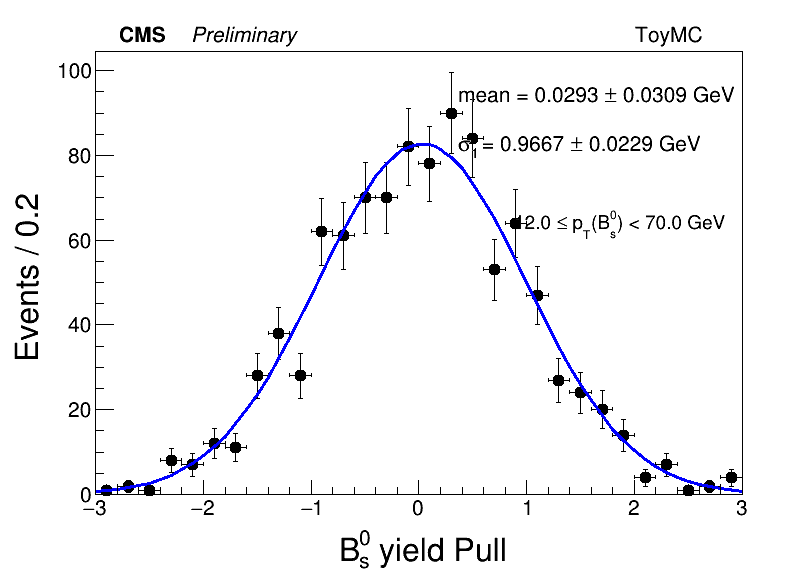
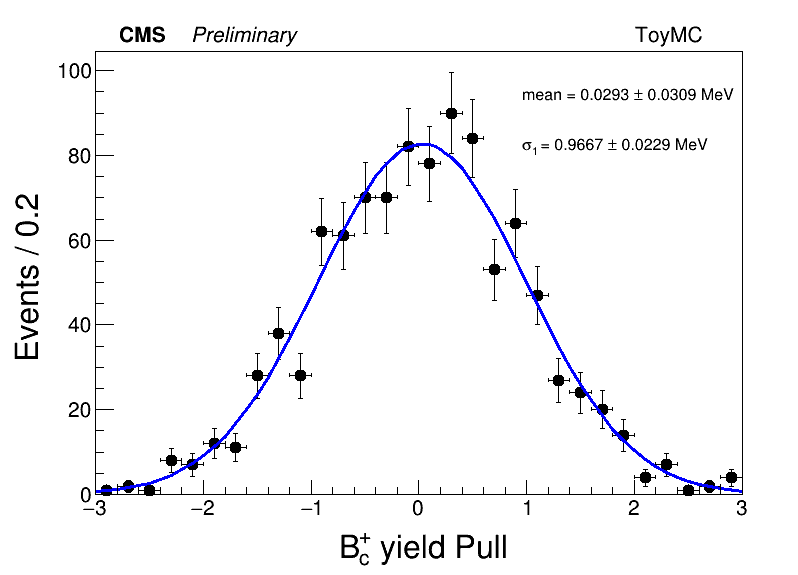
Corrección unidades plots

diff --git a/Documents/Parcial2/CC1216730080/BcMassFit.C b/Documents/Parcial2/CC1216730080/BcMassFit.C
@@ -109,7 +109,7 @@ TCanvas* CreateCanvasNomPull(TString cname, RooFitResult* result, RooDataSet dat
   data.plotOn(Mframe,DataError(RooAbsData::SumW2),MarkerSize(1.0),XErrorSize(0),Name("Data"));
   MassModel.plotOn(Mframe);
   
-  Mframe->SetYTitle(Form("Events / %1.4f GeV", (6.5-6.04)/nbin)); 
+  Mframe->SetYTitle(Form("Events / %1.4f MeV", (6.5-6.04)/nbin)); 
   Mframe->SetLabelSize(0.07,"XY");
   Mframe->SetTitleSize(0.08,"XY");
   Mframe->GetYaxis()->CenterTitle();   
@@ -150,8 +150,8 @@ TCanvas* CreateCanvasNomPull(TString cname, RooFitResult* result, RooDataSet dat
   legpar->SetFillColor(0);
   legpar->SetBorderSize(0);
   legpar->SetFillStyle(0);
-  legpar->AddEntry("",Form("M(B_{c}^{+}) = %1.2f #pm %1.2f GeV",Mpsi,MpsiE),"");
-  legpar->AddEntry("",Form("#sigma = %1.2f #pm %1.2f GeV",G,GE),"");
+  legpar->AddEntry("",Form("M(B_{c}^{+}) = %1.2f #pm %1.2f MeV",Mpsi,MpsiE),"");
+  legpar->AddEntry("",Form("#sigma = %1.2f #pm %1.2f MeV",G,GE),"");
   legpar->AddEntry("",Form("N_{B_{c}^{+}} = %1.0f #pm %1.0f",Ns.getVal(),Ns.getError()),"");
   legpar->AddEntry("",Form("N_{bkg} = %1.0f #pm %1.0f",Nb.getVal(),Nb.getError()),"");
   legpar->Draw();
@@ -162,7 +162,7 @@ TCanvas* CreateCanvasNomPull(TString cname, RooFitResult* result, RooDataSet dat
   legMass->SetFillColor(0); 
   legMass->SetBorderSize(0);
   legMass->SetFillStyle(0); 
-  //legMass->SetHeader(Form("%1.1f #leq p_{T}(B_{s}^{0}) < %1.1f GeV ",ptl,pth));
+  //legMass->SetHeader(Form("%1.1f #leq p_{T}(B_{s}^{0}) < %1.1f MeV ",ptl,pth));
   legMass->Draw();
   
   pad2->cd();
@@ -240,7 +240,7 @@ void BcMassFit(Double_t ptl=12.0, Double_t pth=70.0){
     cout<<" Entries : "<<nentries<<endl;
     
     //------------------------------
-    RooRealVar M("M","M(J/#psi #pi^{+}) (GeV)",Mmin,Mmax);
+    RooRealVar M("M","M(J/#psi #pi^{+}) (MeV)",Mmin,Mmax);
     RooDataSet data("data","data",RooArgSet(M));
 
     Int_t nTen = nentries/10;
@@ -270,8 +270,8 @@ void BcMassFit(Double_t ptl=12.0, Double_t pth=70.0){
     RooExponential bkg1("bkg1","Exp. Background",M,c);
 
     //Modelo para la señal: gaussiana.
-    RooRealVar mean("mean"," Mass mean",6.275,6.25,6.3,"GeV");
-    RooRealVar width("width"," Mass width",0.10,0.01,0.15,"GeV");
+    RooRealVar mean("mean"," Mass mean",6.275,6.25,6.3,"MeV");
+    RooRealVar width("width"," Mass width",0.10,0.01,0.15,"MeV");
     RooGaussian Sig("Sig"," Signal PDF",M,mean,width);
 
     //Modelo combinado: exponencial + gaussiana.

diff --git a/Documents/Parcial2/CC1216730080/ToyMC/analisis_ToyMC_Bs.C b/Documents/Parcial2/CC1216730080/ToyMC/analisis_ToyMC_Bs.C
@@ -80,13 +80,13 @@ TCanvas* CreateCanvasGauss(TString cname, RooFitResult* result, RooDataSet data,
   Double_t Ge = bwg1.getError();
   //Double_t G2e = bwg1.getPropagatedError(*result);
   
-  TLegend *legpar = new TLegend(0.5,0.7,0.8,0.88);
-  legpar->SetTextSize(0.04); //text size in pixels                                 
+  TLegend *legpar = new TLegend(0.6,0.7,0.82,0.88);
+  legpar->SetTextSize(0.03); //text size in pixels                                 
   legpar->SetFillColor(0);
   legpar->SetBorderSize(0);
   legpar->SetFillStyle(0); 
-  legpar->AddEntry("",Form("mean = %1.4f #pm %1.4f GeV ",bwm1.getVal(), bwm1.getError()),"");
-  legpar->AddEntry("",Form("#sigma_{1} = %1.4f #pm %1.4f GeV",G, Ge),"");
+  legpar->AddEntry("",Form("mean = %1.4f #pm %1.4f MeV ",bwm1.getVal(), bwm1.getError()),"");
+  legpar->AddEntry("",Form("#sigma_{1} = %1.4f #pm %1.4f MeV",G, Ge),"");
   legpar->Draw();
 
   TLegend *legMass = new TLegend(0.64,0.57,0.83,0.65);
@@ -95,7 +95,7 @@ TCanvas* CreateCanvasGauss(TString cname, RooFitResult* result, RooDataSet data,
   legMass->SetFillColor(0); 
   legMass->SetBorderSize(0);
   legMass->SetFillStyle(0); 
-  legMass->SetHeader(Form("%1.1f #leq p_{T}(B_{s}^{0}) < %1.1f GeV ",ptl,pth));
+  //legMass->SetHeader(Form("%1.1f #leq p_{T}(B_{s}^{0}) < %1.1f MeV ",ptl,pth));
   legMass->Draw(); 
 
   //TLatex *   tex1 = new TLatex(0.88,0.926,"L = 78.2 fb^{-1} (#sqrt{s} = 13 TeV)");
@@ -149,13 +149,13 @@ using namespace std;
 Double_t MminP = -3.0;
 Double_t MmaxP = 3.0;  
 
-RooRealVar Yi("Yi"," B_{s}^{0} yield Pull",MminP,MmaxP); 
+RooRealVar Yi("Yi"," B_{c}^{+} yield Pull",MminP,MmaxP); 
 RooDataSet dataYi("dataYi","dataYi",RooArgSet(Yi));
 
-RooRealVar Yib("Yib"," B_{s}^{0} yield bkg Pull",MminP,MmaxP); 
+RooRealVar Yib("Yib"," B_{c}^{+} yield bkg Pull",MminP,MmaxP); 
 RooDataSet dataYib("dataYib","dataYib",RooArgSet(Yib)); 
 
-RooRealVar Mu("Mu"," B_{s}^{0} mass Pull",MminP,MmaxP); 
+RooRealVar Mu("Mu"," B_{c}^{+} mass Pull",MminP,MmaxP); 
 RooDataSet dataMu("dataMu","dataMu",RooArgSet(Mu));   
 
 Int_t nTen = nentries/10;

diff --git a/Documents/Parcial2/CC1216730080/Proyecto/Bcmass_Tau.C b/Documents/Parcial2/CC1216730080/Proyecto/Bcmass_Tau.C
@@ -55,7 +55,7 @@ TCanvas* CreateCanvasMass(TString cname, RooFitResult* result, RooDataSet data, 
     data.plotOn(frameM, Name("Data"));
     MassTauModel.plotOn(frameM, DrawOption("L"),LineColor(kRed),LineWidth(2), Name("Mass component"));
 
-    frameM->SetYTitle(Form("Events / %f GeV", (6.5-6.05)/nbin)); 
+    frameM->SetYTitle(Form("Events / %f MeV", (6.5-6.05)/nbin)); 
     frameM->SetLabelSize(0.02,"XY");
     frameM->SetTitleSize(0.03,"XY");
     frameM->GetYaxis()->CenterTitle();   
@@ -333,7 +333,7 @@ void Bcmass_Tau(Double_t ptl=12.0, Double_t pth=70.0){
     cout<<" Entries : "<<nentries<<endl;
 
     //------------------------------
-    RooRealVar M("M","M(J/#psi #pi^{+}) (GeV)",Mmin,Mmax);
+    RooRealVar M("M","M(J/#psi #pi^{+}) (MeV)",Mmin,Mmax);
     RooRealVar Tau("Tau","#tau(J/#psi #pi^{+}) (ps)",tmin,tmax);
     RooRealVar TauErr("TauError","#Delta#tau(J/#psi #pi^{+}) (ps)",terrmin,terrmax);
     RooDataSet data("data","Filtered data Bc mass/lifetime",RooArgSet(M, Tau, TauErr));
@@ -386,8 +386,8 @@ void Bcmass_Tau(Double_t ptl=12.0, Double_t pth=70.0){
     RooExponential Mbkg("Mbkg","Exp. Background",M,m_c_bkg);
 
     //Modelo para la señal: gaussiana.
-    RooRealVar mean("mean"," Mass mean",6.275,6.25,6.3,"GeV");
-    RooRealVar width("width"," Mass width",0.10,0.01,0.15,"GeV");
+    RooRealVar mean("mean"," Mass mean",6.275,6.25,6.3,"MeV");
+    RooRealVar width("width"," Mass width",0.10,0.01,0.15,"MeV");
     RooGaussian Sig("Sig"," Signal PDF",M,mean,width);
 
     //Modelo combinado: exponencial + gaussiana.

diff --git a/Documents/Parcial2/CC1216730080/ToyMC/Bc_ToyMC.C b/Documents/Parcial2/CC1216730080/ToyMC/Bc_ToyMC.C
@@ -113,7 +113,7 @@ TCanvas* CreateCanvasNom(TString cname, RooFitResult* result, RooDataSet *data, 
   legMass->SetFillColor(0); 
   legMass->SetBorderSize(0);
   legMass->SetFillStyle(0); 
-  legMass->SetHeader(Form("%1.1f #leq p_{T}(B_{s}^{0}) < %1.1f GeV ",ptl,pth));
+  legMass->SetHeader(Form("%1.1f #leq p_{T}(B_{s}^{0}) < %1.1f MeV ",ptl,pth));
   legMass->Draw(); 
   
   //TLatex *   tex1 = new TLatex(0.92,0.926,"61.2 fb^{-1} (13 TeV)");
@@ -160,7 +160,7 @@ void Bc_ToyMC(Int_t ntotal=1000, Int_t seed=5, Double_t ptl=12, Double_t pth=70)
   Double_t Mmin = 6.04; 
   Double_t Mmax = 6.50;
 
-  RooRealVar M("M","M(J/#psi #pi^{+}) (GeV)",Mmin,Mmax);
+  RooRealVar M("M","M(J/#psi #pi^{+}) (MeV)",Mmin,Mmax);
   //RooDataSet data("data","data",RooArgSet(M));
  
   //RooAbsReal::defaultIntegratorConfig()->setEpsAbs(1e-10) ;
@@ -176,8 +176,8 @@ void Bc_ToyMC(Int_t ntotal=1000, Int_t seed=5, Double_t ptl=12, Double_t pth=70)
   //**** define nominal signal ****
   //gaussians                                                                                                                                                   
   //RooRealVar mean("mean"," Mass mean",3.686097);
-  RooRealVar mean("mean"," Mass mean",6.275,6.25,6.3,"GeV");
-  RooRealVar width("width"," Mass width",0.10,0.01,0.15,"GeV");
+  RooRealVar mean("mean"," Mass mean",6.275,6.25,6.3,"MeV");
+  RooRealVar width("width"," Mass width",0.10,0.01,0.15,"MeV");
   RooGaussian Sig("Sig"," Signal PDF",M,mean,width);
     
   //********final PDF ********

diff --git a/Documents/Parcial2/CC1216730080/ToyMC/classtoy.h b/Documents/Parcial2/CC1216730080/ToyMC/classtoy.h
@@ -1,6 +1,6 @@
 //////////////////////////////////////////////////////////
 // This class has been automatically generated on
-// Sat May 27 12:08:57 2023 by ROOT version 6.28/00
+// Sat May 27 12:49:45 2023 by ROOT version 6.28/00
 // from TTree tree/tree
 // found on file: ToyMC_Bs_ptbins_5_12_70.root
 //////////////////////////////////////////////////////////

diff --git a/Documents/Parcial2/CC1216730080/myTreeClass.h b/Documents/Parcial2/CC1216730080/myTreeClass.h
@@ -1,6 +1,6 @@
 //////////////////////////////////////////////////////////
 // This class has been automatically generated on
-// Sat May 27 11:55:13 2023 by ROOT version 6.28/00
+// Sat May 27 12:46:30 2023 by ROOT version 6.28/00
 // from TTree tree/Bc mass data
 // found on file: Bc_data.root
 //////////////////////////////////////////////////////////
